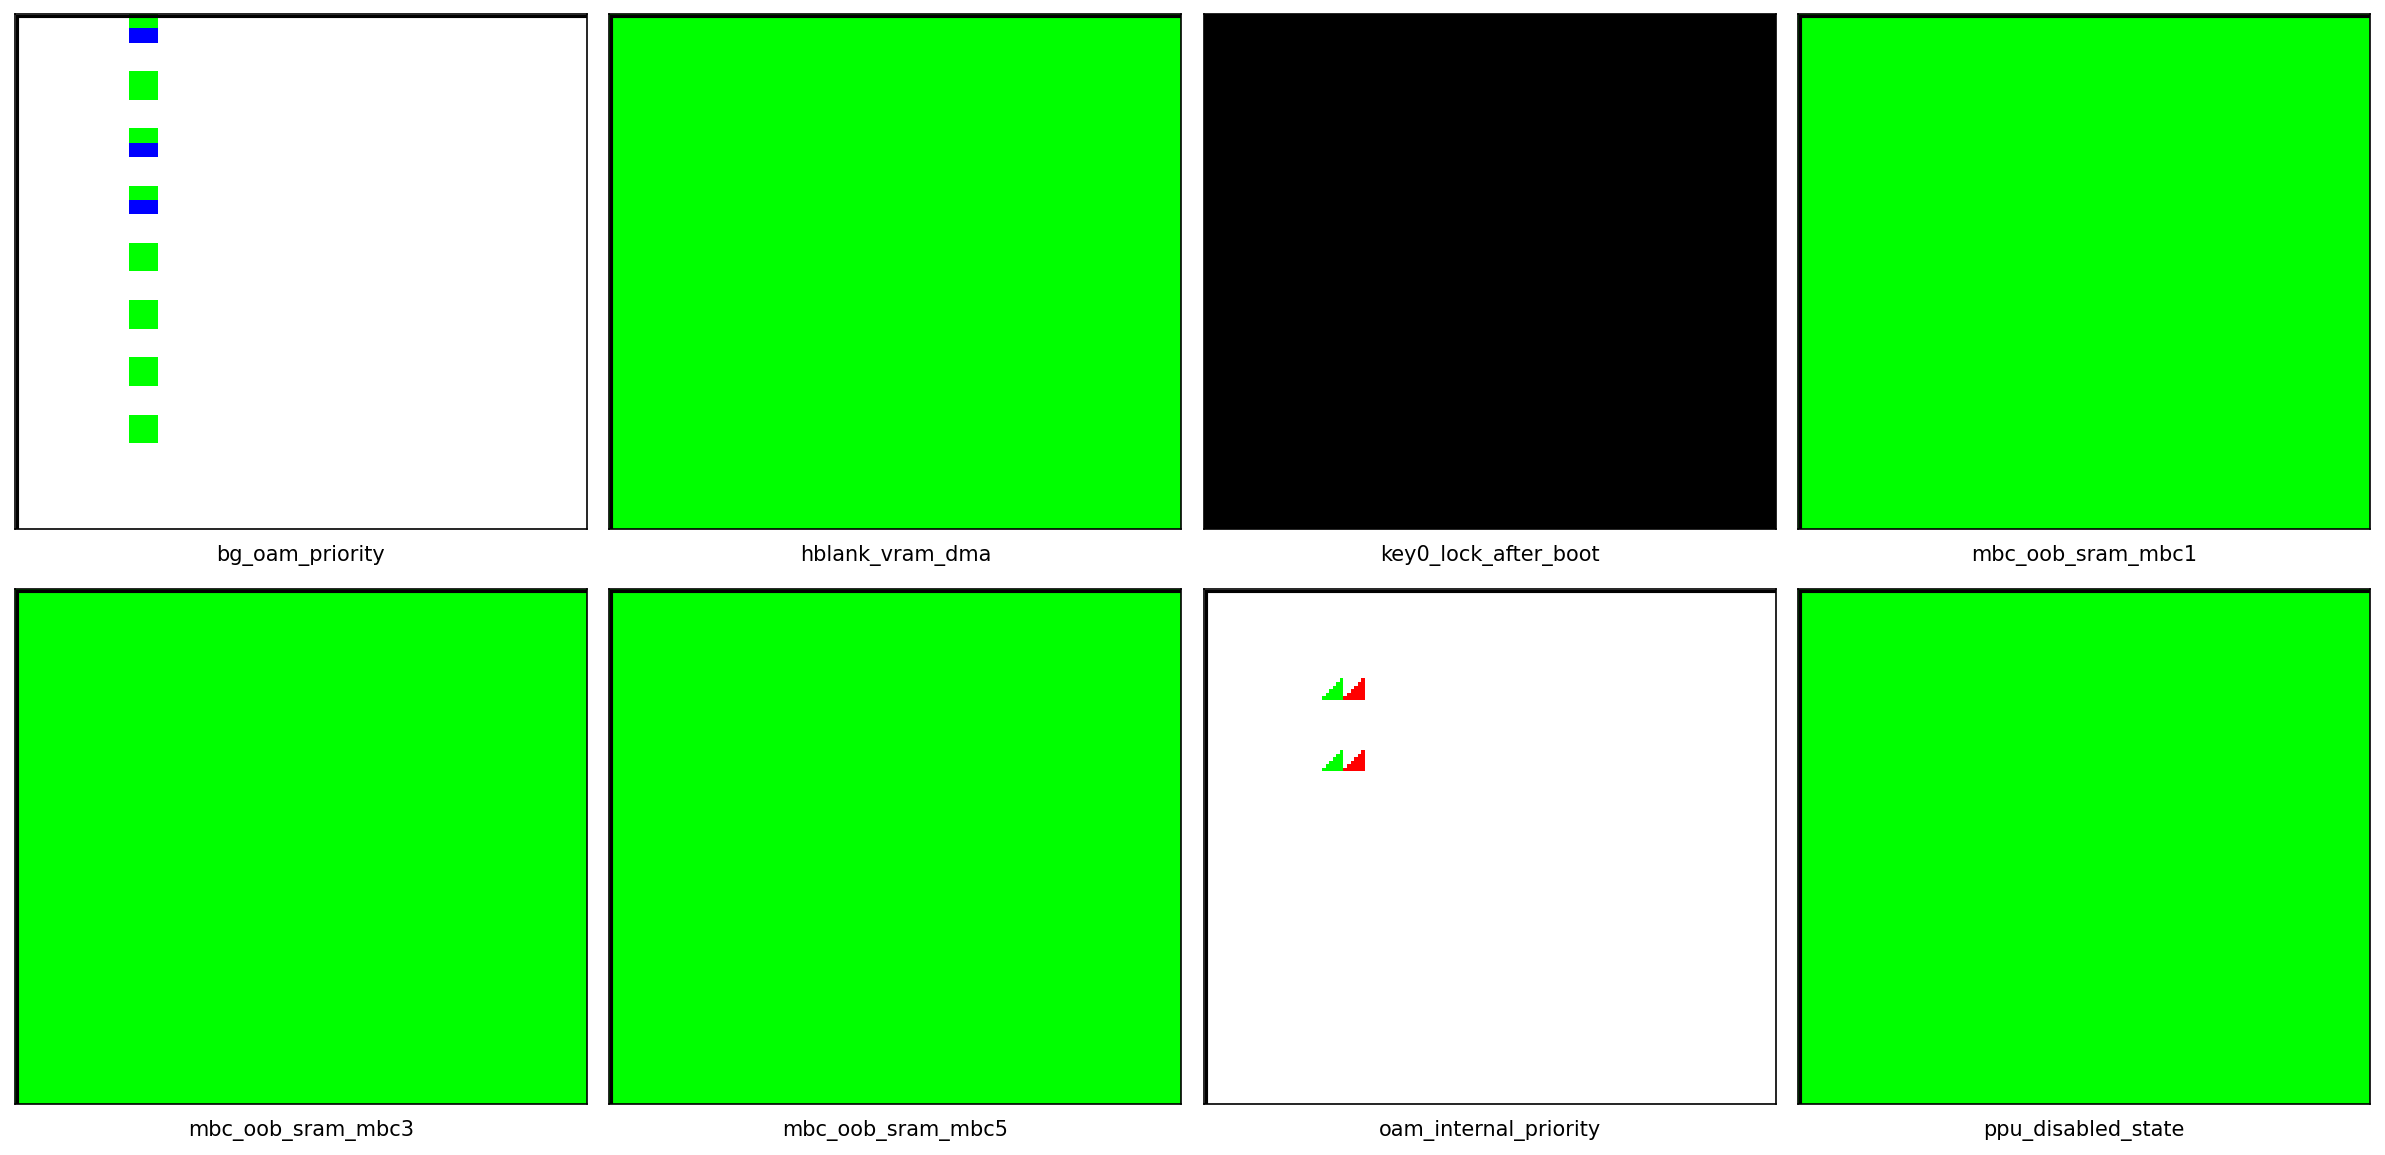
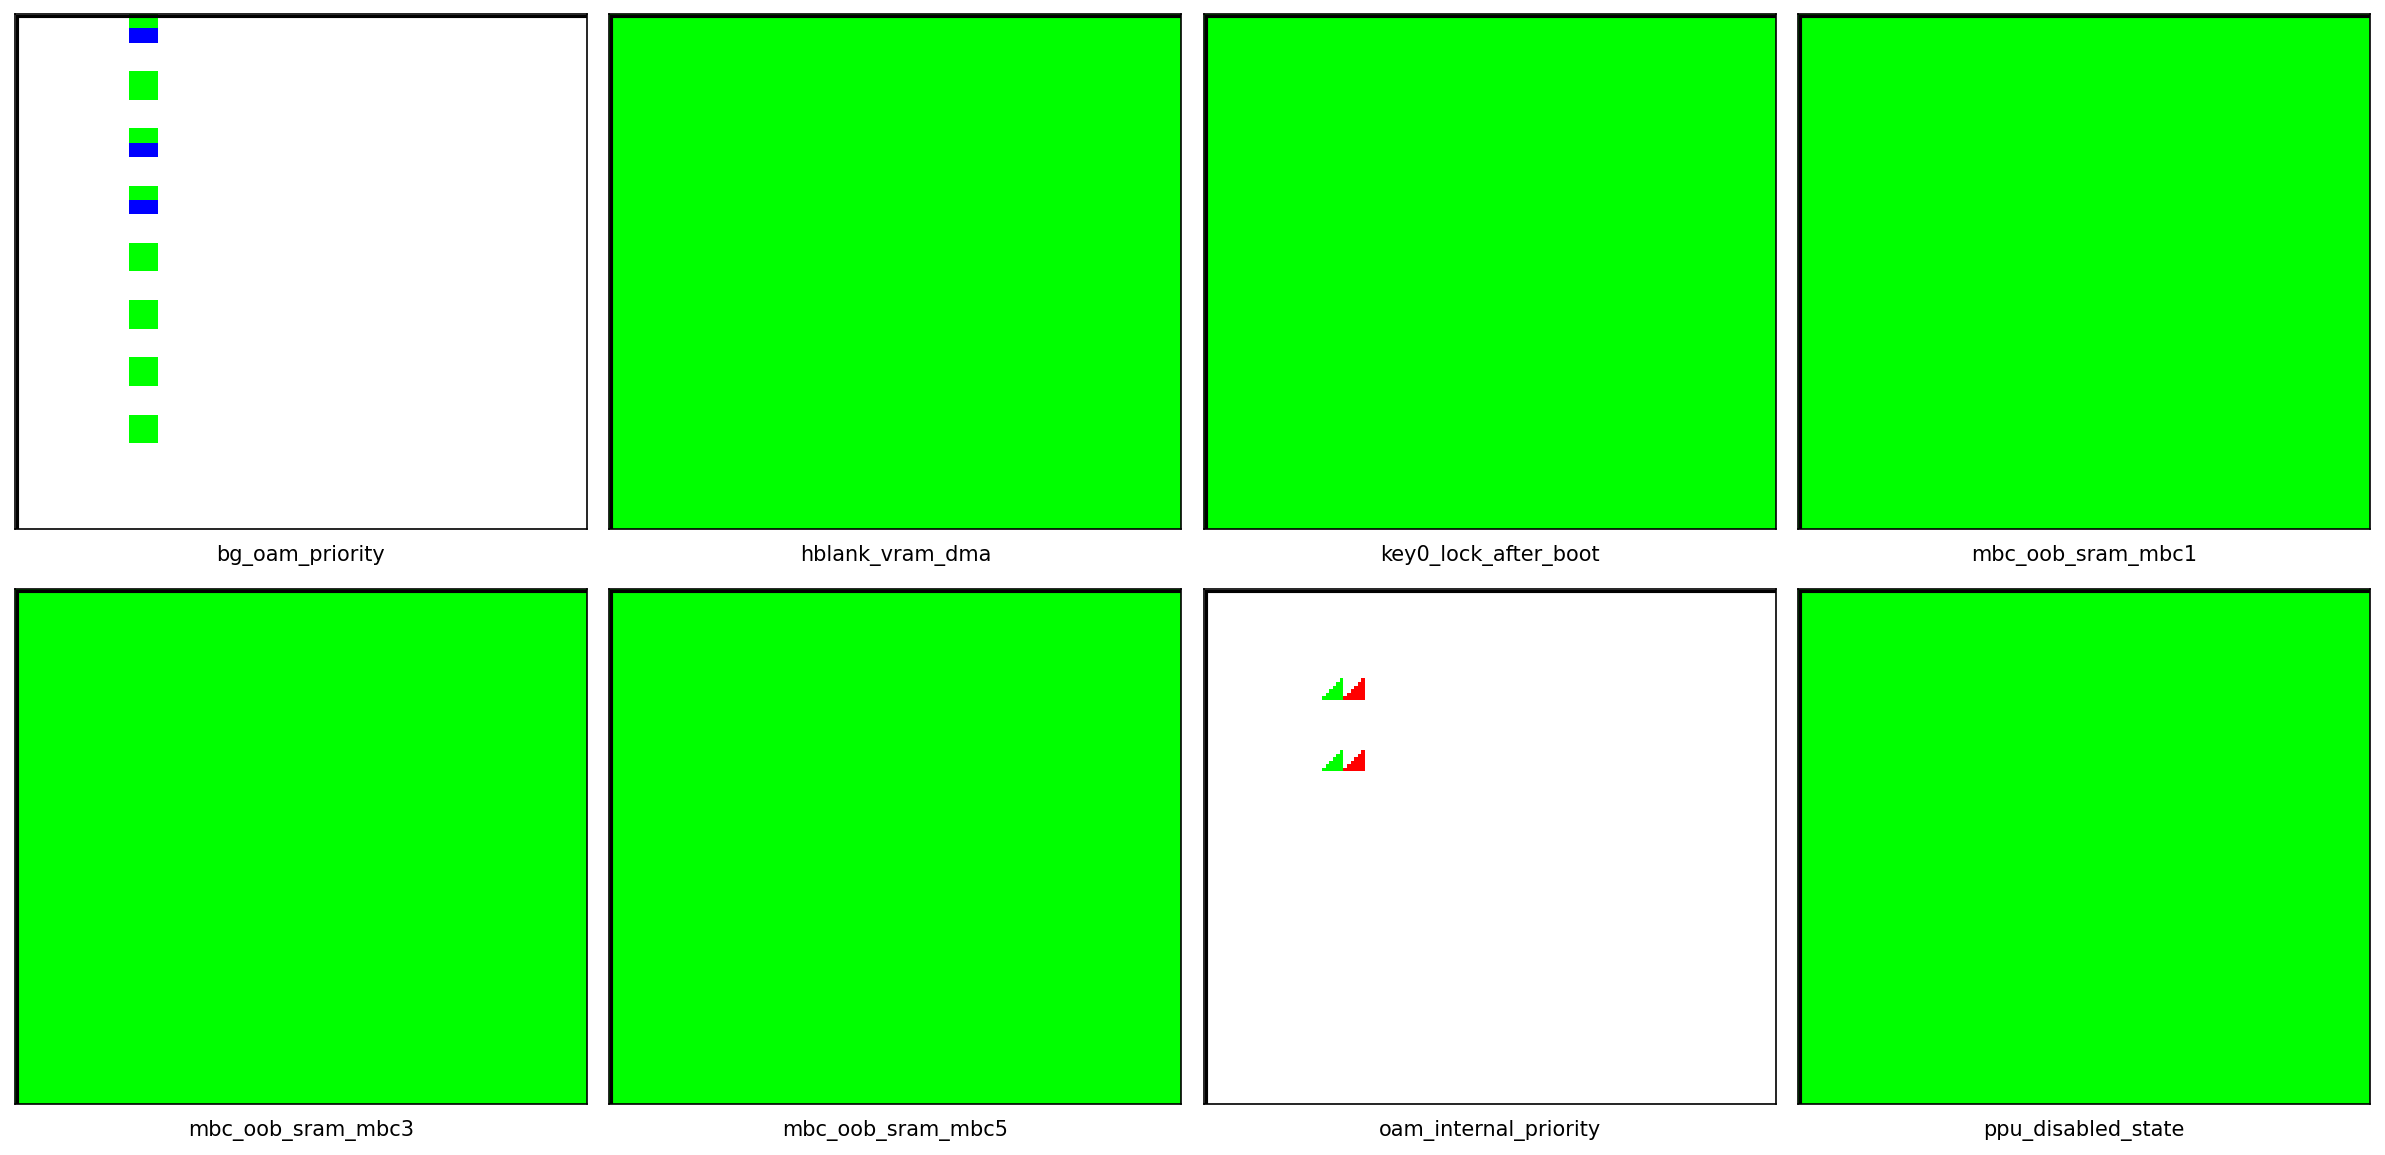
100% completion on magen tests

Changed region(s): [[0.4964, 0.0, 0.7447, 0.4675]]

diff --git a/src/gbc.cpp b/src/gbc.cpp
@@ -330,6 +330,10 @@ GameBoyColor::GameBoyColor(Frontend &frontend, const BootROM &rom)
     : Debuggable(debugger_), debugger_(std::nullopt), fe_(frontend) {
   system_init();
   bios_ = rom; // We assume rom is already valid
+
+  /* Here, we gauge whether or not the BIOS is the DMG bios, or the CGB bios by
+   * seeing how large it is. We do this because running the DMG BIOS in CGB mode
+   * does not make much sense, this isn't possible on real hardware anyway. */
   sys_.cgb_mode = bios_->is_large_rom();
   cram_init_mono();
 }
@@ -351,6 +355,7 @@ void GameBoyColor::system_init() {
       .halted = false,
       .speed_switch_armed = false,
       .double_speed = false,
+      .unmap_key0 = false,
   };
 
   /* Component initialization */
@@ -375,7 +380,7 @@ void GameBoyColor::system_init() {
   joypad_reg->set_interrupt_reg(if_reg);
 }
 
-void GameBoyColor::skip_bios() const {
+void GameBoyColor::skip_bios() {
   using mmio = IORegisterMapping;
 
   /* We cannot simply start executing without a BIOS for numerous reasons. So,
@@ -431,6 +436,10 @@ void GameBoyColor::skip_bios() const {
   // Color ram has to be initialized for both sprites and background
   cram_init_mono(mmio::MMIO_LCD_BGPI, mmio::MMIO_LCD_BGPD);
   cram_init_mono(mmio::MMIO_LCD_OBPI, mmio::MMIO_LCD_OBPD);
+
+  // Unmap KEY0 so CGB/DMG mode cannot be tampered with during runtime. We
+  // can still set this mode ourselves through the 'sys' struct.
+  sys_.unmap_key0 = true;
 }
 
 void GameBoyColor::cram_init_mono() const {
@@ -564,10 +573,11 @@ enum : std::uint16_t {
   F_HALTED,
   F_SPEED_SWITCH_ARMED,
   F_DOUBLE_SPEED,
+  F_UNMAP_KEY0,
 };
 
 template <typename T> void GameBoyColor::parse_savestate(T &t) {
-  constexpr auto version = 2; // Schema revision
+  constexpr auto version = 3; // Schema revision
   t.chunk_header(version, Savestate::C_GBC);
 
   t.field_generic(F_ELAPSED_CLOCKS, sys_.elapsed_clocks);
@@ -575,6 +585,7 @@ template <typename T> void GameBoyColor::parse_savestate(T &t) {
   t.field_generic(F_HALTED, sys_.halted);
   t.field_generic(F_SPEED_SWITCH_ARMED, sys_.speed_switch_armed);
   t.field_generic(F_DOUBLE_SPEED, sys_.double_speed);
+  t.field_generic(F_UNMAP_KEY0, sys_.unmap_key0);
 
   // Begin recursive descent into each component
   cpu->parse_savestate(t);

diff --git a/src/memory/mmio/cgb.cpp b/src/memory/mmio/cgb.cpp
@@ -7,18 +7,29 @@
 namespace SYS {
 
 void KEY0::write(const byte_t value) {
-  /* Two is the only bit this emulator concerns itself with, though others are
-   * rumored to have other purposes. */
-  state_ = (value & dmg_mode_mask) | ~dmg_mode_mask;
-  /* This will be visible to components that need to be aware about the current
-   * speed mode the system is operating in. */
-  sys_.cgb_mode = (state_ & dmg_mode_mask) == 0;
+  if (!sys_.unmap_key0) {
+    /* Two is the only bit this emulator concerns itself with, though others are
+     * rumored to have other purposes. */
+    state_ = (value & dmg_mode_mask) | ~dmg_mode_mask;
+
+    /* This will be visible to components that need to be aware about the current
+     * speed mode the system is operating in. */
+    sys_.cgb_mode = (state_ & dmg_mode_mask) == 0;
+
+    /* Finally, once this register is written by the BIOS (only happens once), it
+     * will be mapped out of memory until reset manually via rebooting the system */
+    sys_.unmap_key0 = true;
+  }
 }
+
 byte_t KEY0::peek() const {
   constexpr byte_t dmg_mode = dmg_mode_mask;
   constexpr byte_t cgb_mode = 0x00; // Bit cleared
+  if (sys_.unmap_key0)              // Locked by BIOS
+    return 0xFF;
   return sys_.cgb_mode ? cgb_mode : dmg_mode;
 }
+
 byte_t KEY0::read() { return peek(); }
 
 void KEY1::write(const byte_t value) {
@@ -26,6 +37,7 @@ void KEY1::write(const byte_t value) {
   sys_.speed_switch_armed = ((value & 0x1) != 0);
   state_ = value & unused_bits_mask;
 }
+
 byte_t KEY1::peek() const {
   byte_t value = state_ & unused_bits_mask;
   if (sys_.speed_switch_armed)
@@ -34,6 +46,7 @@ byte_t KEY1::peek() const {
     value = value | 0x80;
   return value;
 }
+
 byte_t KEY1::read() { return peek(); }
 
 } // namespace SYS

diff --git a/includes/gbc.hpp b/includes/gbc.hpp
@@ -31,6 +31,7 @@ struct runtime_sys_info {
   // For double speed mode, see KEY1 register in `cgb.hpp` for details
   bool speed_switch_armed{};
   bool double_speed{};
+  bool unmap_key0{};
 };
 
 class GameBoyColor final : Debug::Debuggable {
@@ -91,8 +92,8 @@ private:
   std::unique_ptr<SerialUnit> serial{};
 
   /* Top-level system initialization helpers */
-  void system_init();     // Connects all components in the system
-  void skip_bios() const; // Skips bios when unconfigured
+  void system_init(); // Connects all components in the system
+  void skip_bios();   // Skips bios when unconfigured
 
   /* Helpers for initializing emulator state to skip the BIOS */
   void cram_init_mono(IORegisterMapping index, IORegisterMapping data) const;

diff --git a/assets/test_results.md b/assets/test_results.md
@@ -90,6 +90,7 @@
 | testing/test_visual.py  | test_blargg_suite | halt_bug                                     |      1 |      0 |        1 |
 | testing/test_visual.py  | test_magen_suite  | bg_oam_priority                              |      1 |      0 |        1 |
 | testing/test_visual.py  | test_magen_suite  | hblank_vram_dma                              |      1 |      0 |        1 |
+| testing/test_visual.py  | test_magen_suite  | key0_lock_after_boot                         |      1 |      0 |        1 |
 | testing/test_visual.py  | test_magen_suite  | mbc_oob_sram_mbc1                            |      1 |      0 |        1 |
 | testing/test_visual.py  | test_magen_suite  | mbc_oob_sram_mbc3                            |      1 |      0 |        1 |
 | testing/test_visual.py  | test_magen_suite  | mbc_oob_sram_mbc5                            |      1 |      0 |        1 |
@@ -99,5 +100,4 @@
 | testing/test_mooneye.py | test_mooneye      | acceptance::ppu::intr_2_mode0_timing_sprites |      0 |      1 |        1 |
 | testing/test_mooneye.py | test_mooneye      | acceptance::ppu::intr_2_oam_ok_timing        |      0 |      1 |        1 |
 | testing/test_visual.py  | test_blargg_suite | oam_bug                                      |      0 |      1 |        1 |
-| testing/test_visual.py  | test_magen_suite  | key0_lock_after_boot                         |      0 |      1 |        1 |
-| TOTAL                   |                   |                                              |     95 |      5 |      100 |
+| TOTAL                   |                   |                                              |     96 |      4 |      100 |

diff --git a/docs/savestate_changelog.md b/docs/savestate_changelog.md
@@ -1,0 +1,2 @@
+## Thu Apr 16 09:24:28 PM MST 2026 (+1 new field)
+- F_UNMAP_KEY0 added, bumped C_GBC revision to version 3
